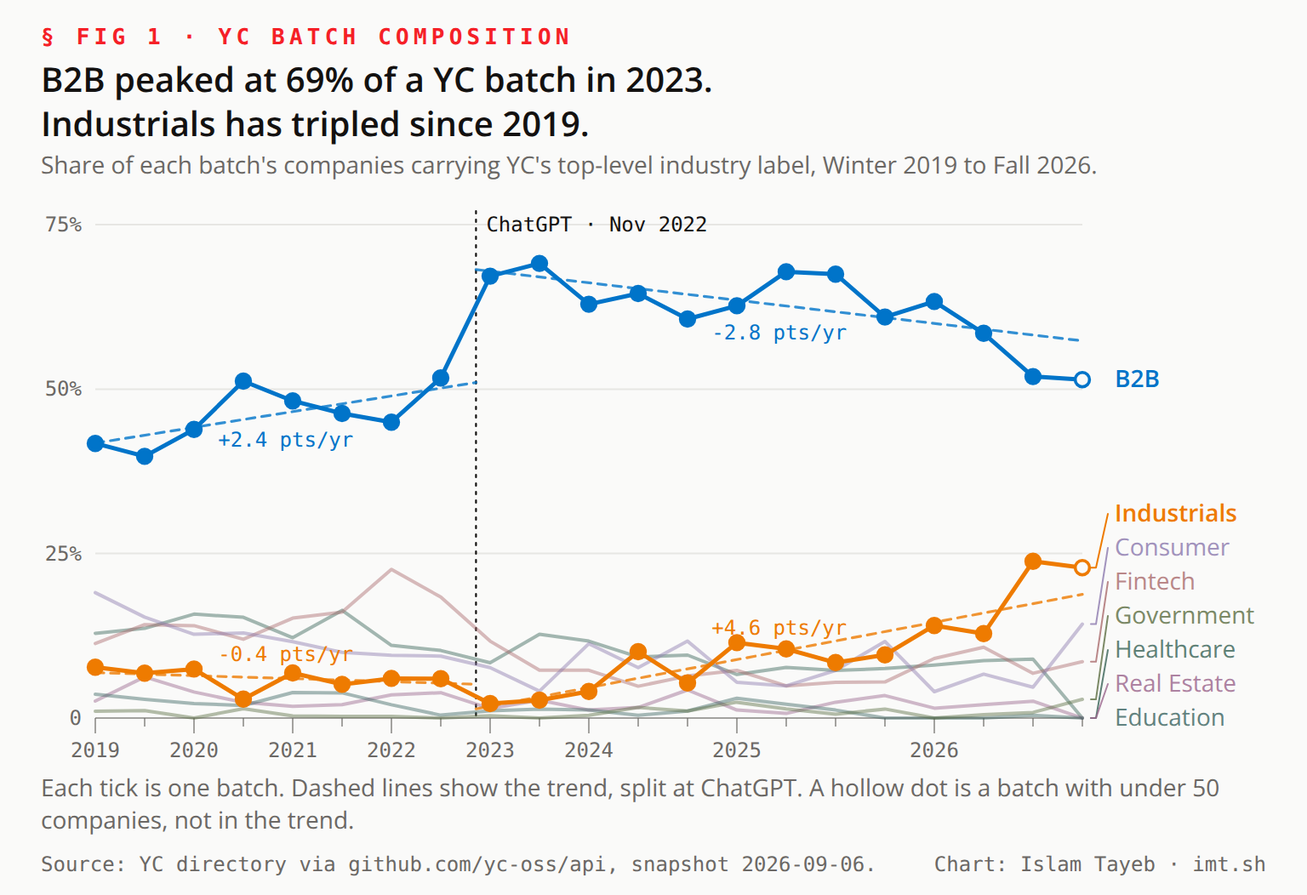
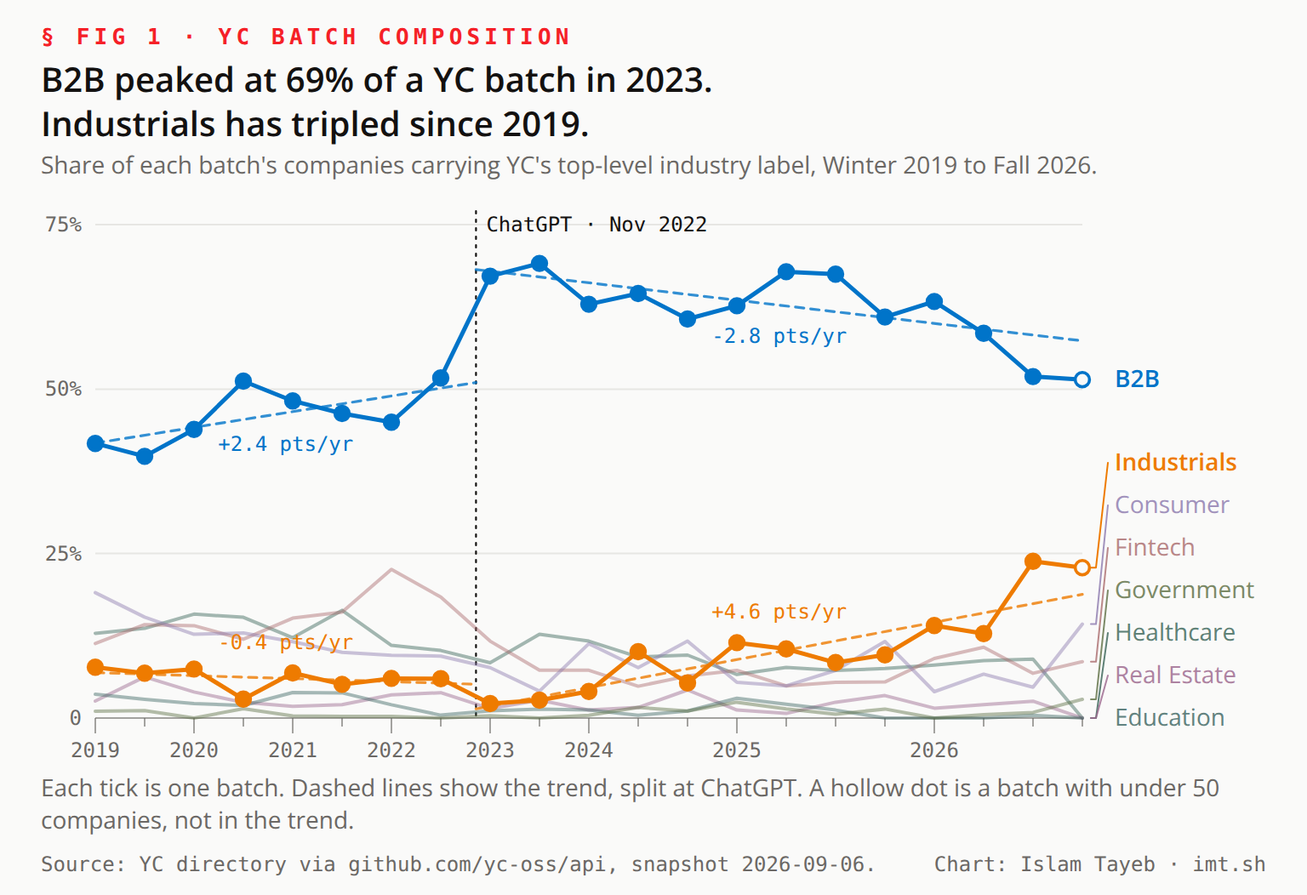
Blog figures: Fig 1 slope labels clear the series line, end labels spaced 25px

diff --git a/blog/figures/preview.html b/blog/figures/preview.html
@@ -30,7 +30,7 @@ button{font:12px ui-monospace,Menlo,monospace;background:none;color:var(--muted-
 .imt .s-r{stroke:var(--r)}.imt .s-o{stroke:var(--o)}.imt .s-y{stroke:var(--y)}.imt .s-b{stroke:var(--b)}
 .imt .f-r{fill:var(--r)}.imt .f-o{fill:var(--o)}.imt .f-y{fill:var(--y)}.imt .f-b{fill:var(--b)}
 .imt .area{opacity:.12}
-</style><rect class="ground" width="768" height="526"/><text x="24.0" y="26.0" class="kick mono f-r" text-anchor="start">§ FIG 1  ·  YC BATCH COMPOSITION</text><text x="24.0" y="54.0" class="h" text-anchor="start">B2B peaked at 69% of a YC batch in 2023.</text><text x="24.0" y="80.0" class="h" text-anchor="start">Industrials has tripled since 2019.</text><text x="24.0" y="102.0" class="dek m" text-anchor="start">Share of each batch's companies carrying YC's top-level industry label, Winter 2019 to Fall 2026.</text><line x1="56.0" y1="422.0" x2="636.0" y2="422.0" class="axis" stroke-width="1"/><text x="48.0" y="426.0" class="tick mono m" text-anchor="end">0</text><line x1="56.0" y1="325.3" x2="636.0" y2="325.3" class="grid" stroke-width="1"/><text x="48.0" y="329.3" class="tick mono m" text-anchor="end">25%</text><line x1="56.0" y1="228.7" x2="636.0" y2="228.7" class="grid" stroke-width="1"/><text x="48.0" y="232.7" class="tick mono m" text-anchor="end">50%</text><line x1="56.0" y1="132.0" x2="636.0" y2="132.0" class="grid" stroke-width="1"/><text x="48.0" y="136.0" class="tick mono m" text-anchor="end">75%</text><line x1="56.0" y1="422.0" x2="56.0" y2="431.0" class="axis" stroke-width="1"/><text x="56.0" y="445.0" class="tick mono m" text-anchor="middle">2019</text><line x1="85.0" y1="422.0" x2="85.0" y2="427.0" class="axis" stroke-width="1"/><line x1="114.0" y1="422.0" x2="114.0" y2="431.0" class="axis" stroke-width="1"/><text x="114.0" y="445.0" class="tick mono m" text-anchor="middle">2020</text><line x1="143.0" y1="422.0" x2="143.0" y2="427.0" class="axis" stroke-width="1"/><line x1="172.0" y1="422.0" x2="172.0" y2="431.0" class="axis" stroke-width="1"/><text x="172.0" y="445.0" class="tick mono m" text-anchor="middle">2021</text><line x1="201.0" y1="422.0" x2="201.0" y2="427.0" class="axis" stroke-width="1"/><line x1="230.0" y1="422.0" x2="230.0" y2="431.0" class="axis" stroke-width="1"/><text x="230.0" y="445.0" class="tick mono m" text-anchor="middle">2022</text><line x1="259.0" y1="422.0" x2="259.0" y2="427.0" class="axis" stroke-width="1"/><line x1="288.0" y1="422.0" x2="288.0" y2="431.0" class="axis" stroke-width="1"/><text x="288.0" y="445.0" class="tick mono m" text-anchor="middle">2023</text><line x1="317.0" y1="422.0" x2="317.0" y2="427.0" class="axis" stroke-width="1"/><line x1="346.0" y1="422.0" x2="346.0" y2="431.0" class="axis" stroke-width="1"/><text x="346.0" y="445.0" class="tick mono m" text-anchor="middle">2024</text><line x1="375.0" y1="422.0" x2="375.0" y2="427.0" class="axis" stroke-width="1"/><line x1="404.0" y1="422.0" x2="404.0" y2="427.0" class="axis" stroke-width="1"/><line x1="433.0" y1="422.0" x2="433.0" y2="431.0" class="axis" stroke-width="1"/><text x="433.0" y="445.0" class="tick mono m" text-anchor="middle">2025</text><line x1="462.0" y1="422.0" x2="462.0" y2="427.0" class="axis" stroke-width="1"/><line x1="491.0" y1="422.0" x2="491.0" y2="427.0" class="axis" stroke-width="1"/><line x1="520.0" y1="422.0" x2="520.0" y2="427.0" class="axis" stroke-width="1"/><line x1="549.0" y1="422.0" x2="549.0" y2="431.0" class="axis" stroke-width="1"/><text x="549.0" y="445.0" class="tick mono m" text-anchor="middle">2026</text><line x1="578.0" y1="422.0" x2="578.0" y2="427.0" class="axis" stroke-width="1"/><line x1="607.0" y1="422.0" x2="607.0" y2="427.0" class="axis" stroke-width="1"/><line x1="636.0" y1="422.0" x2="636.0" y2="427.0" class="axis" stroke-width="1"/><line x1="279.7" y1="124.0" x2="279.7" y2="422.0" class="ev" stroke-width="1"/><text x="285.7" y="136.0" class="tick mono" text-anchor="start">ChatGPT · Nov 2022</text><path d="M56.0,372.2 L85.0,369.3 L114.0,360.9 L143.0,362.8 L172.0,374.8 L201.0,358.7 L230.0,379.3 L259.0,382.3 L288.0,389.5 L317.0,372.8 L346.0,376.8 L375.0,386.1 L404.0,385.0 L433.0,396.4 L462.0,392.3 L491.0,394.0 L520.0,392.9 L549.0,390.9 L578.0,388.3 L607.0,387.4 L636.0,422.0" class="ln d0" stroke-width="2.0" opacity="0.45"><title>Healthcare</title></path><path d="M56.0,378.2 L85.0,367.1 L114.0,367.7 L143.0,375.7 L172.0,363.3 L201.0,359.7 L230.0,334.6 L259.0,350.9 L288.0,376.8 L317.0,393.9 L346.0,393.9 L375.0,403.3 L404.0,397.3 L433.0,394.0 L462.0,403.1 L491.0,401.0 L520.0,400.8 L549.0,387.0 L578.0,380.4 L607.0,395.7 L636.0,388.9" class="ln d5" stroke-width="2.0" opacity="0.45"><title>Fintech</title></path><path d="M56.0,348.3 L85.0,362.7 L114.0,372.8 L143.0,372.0 L172.0,377.1 L201.0,383.4 L230.0,385.1 L259.0,385.6 L288.0,392.4 L317.0,406.2 L346.0,378.3 L375.0,392.4 L404.0,376.8 L433.0,401.0 L462.0,403.1 L491.0,394.0 L520.0,377.0 L549.0,406.5 L578.0,396.2 L607.0,403.9 L636.0,366.8" class="ln d1" stroke-width="2.0" opacity="0.45"><title>Consumer</title></path><path d="M56.0,412.0 L85.0,397.8 L114.0,406.7 L143.0,412.8 L172.0,415.1 L201.0,414.1 L230.0,408.4 L259.0,407.1 L288.0,416.4 L317.0,411.5 L346.0,417.3 L375.0,415.8 L404.0,405.5 L433.0,417.3 L462.0,419.3 L491.0,412.7 L520.0,408.8 L549.0,416.2 L578.0,414.1 L607.0,412.1 L636.0,422.0" class="ln d3" stroke-width="2.0" opacity="0.45"><title>Real Estate and Construction</title></path><path d="M56.0,408.0 L85.0,411.0 L114.0,413.5 L143.0,414.6 L172.0,407.0 L201.0,407.2 L230.0,414.2 L259.0,420.3 L288.0,417.8 L317.0,416.7 L346.0,417.3 L375.0,420.4 L404.0,417.9 L433.0,410.4 L462.0,413.9 L491.0,417.3 L520.0,422.0 L549.0,422.0 L578.0,422.0 L607.0,420.4 L636.0,422.0" class="ln d2" stroke-width="2.0" opacity="0.45"><title>Education</title></path><path d="M56.0,418.0 L85.0,417.6 L114.0,422.0 L143.0,416.5 L172.0,420.8 L201.0,421.0 L230.0,421.0 L259.0,422.0 L288.0,420.6 L317.0,422.0 L346.0,420.4 L375.0,415.8 L404.0,417.9 L433.0,412.7 L462.0,416.6 L491.0,419.7 L520.0,416.7 L549.0,422.0 L578.0,420.0 L607.0,418.7 L636.0,411.0" class="ln d4" stroke-width="2.0" opacity="0.45"><title>Government</title></path><path d="M56.0,260.4 L279.7,224.8" class="ln trend s-b" stroke-width="1.6"><title>B2B, least-squares fit Winter 2019 to Summer 2022: +2.4 points per year</title></path><text x="167.9" y="262.6" class="tick mono f-b" text-anchor="middle">+2.4 pts/yr</text><path d="M279.7,158.4 L636.0,200.3" class="ln trend s-b" stroke-width="1.6"><title>B2B, least-squares fit Winter 2023 to Summer 2026: -2.8 points per year</title></path><text x="457.9" y="199.3" class="tick mono f-b" text-anchor="middle">-2.8 pts/yr</text><path d="M56.0,260.6 L85.0,268.2 L114.0,252.4 L143.0,224.0 L172.0,235.6 L201.0,243.0 L230.0,248.1 L259.0,222.1 L288.0,162.3 L317.0,154.8 L346.0,178.8 L375.0,172.5 L404.0,187.5 L433.0,179.7 L462.0,159.7 L491.0,161.1 L520.0,186.3 L549.0,177.2 L578.0,195.9 L607.0,221.3 L636.0,223.1" class="ln s-b" stroke-width="2.5"></path><circle cx="56.0" cy="260.6" r="4.2" class="s-b f-b" stroke-width="1.8"><title>W19 · B2B · 41.8% (81 of 194)</title></circle><circle cx="85.0" cy="268.2" r="4.2" class="s-b f-b" stroke-width="1.8"><title>S19 · B2B · 39.8% (70 of 176)</title></circle><circle cx="114.0" cy="252.4" r="4.2" class="s-b f-b" stroke-width="1.8"><title>W20 · B2B · 43.9% (100 of 228)</title></circle><circle cx="143.0" cy="224.0" r="4.2" class="s-b f-b" stroke-width="1.8"><title>S20 · B2B · 51.2% (107 of 209)</title></circle><circle cx="172.0" cy="235.6" r="4.2" class="s-b f-b" stroke-width="1.8"><title>W21 · B2B · 48.2% (162 of 336)</title></circle><circle cx="201.0" cy="243.0" r="4.2" class="s-b f-b" stroke-width="1.8"><title>S21 · B2B · 46.3% (181 of 391)</title></circle><circle cx="230.0" cy="248.1" r="4.2" class="s-b f-b" stroke-width="1.8"><title>W22 · B2B · 45.0% (179 of 398)</title></circle><circle cx="259.0" cy="222.1" r="4.2" class="s-b f-b" stroke-width="1.8"><title>S22 · B2B · 51.7% (121 of 234)</title></circle><circle cx="288.0" cy="162.3" r="4.2" class="s-b f-b" stroke-width="1.8"><title>W23 · B2B · 67.2% (184 of 274)</title></circle><circle cx="317.0" cy="154.8" r="4.2" class="s-b f-b" stroke-width="1.8"><title>S23 · B2B · 69.1% (152 of 220)</title></circle><circle cx="346.0" cy="178.8" r="4.2" class="s-b f-b" stroke-width="1.8"><title>W24 · B2B · 62.9% (156 of 248)</title></circle><circle cx="375.0" cy="172.5" r="4.2" class="s-b f-b" stroke-width="1.8"><title>S24 · B2B · 64.5% (160 of 248)</title></circle><circle cx="404.0" cy="187.5" r="4.2" class="s-b f-b" stroke-width="1.8"><title>F24 · B2B · 60.6% (57 of 94)</title></circle><circle cx="433.0" cy="179.7" r="4.2" class="s-b f-b" stroke-width="1.8"><title>W25 · B2B · 62.7% (104 of 166)</title></circle><circle cx="462.0" cy="159.7" r="4.2" class="s-b f-b" stroke-width="1.8"><title>X25 · B2B · 67.8% (97 of 143)</title></circle><circle cx="491.0" cy="161.1" r="4.2" class="s-b f-b" stroke-width="1.8"><title>S25 · B2B · 67.5% (112 of 166)</title></circle><circle cx="520.0" cy="186.3" r="4.2" class="s-b f-b" stroke-width="1.8"><title>F25 · B2B · 61.0% (89 of 146)</title></circle><circle cx="549.0" cy="177.2" r="4.2" class="s-b f-b" stroke-width="1.8"><title>W26 · B2B · 63.3% (126 of 199)</title></circle><circle cx="578.0" cy="195.9" r="4.2" class="s-b f-b" stroke-width="1.8"><title>X26 · B2B · 58.5% (114 of 195)</title></circle><circle cx="607.0" cy="221.3" r="4.2" class="s-b f-b" stroke-width="1.8"><title>S26 · B2B · 51.9% (122 of 235)</title></circle><circle cx="636.0" cy="223.1" r="4.2" class="s-b hollow" stroke-width="1.8"><title>F26 · B2B · 51.4% (18 of 35)</title></circle><path d="M56.0,395.3 L279.7,402.1" class="ln trend s-o" stroke-width="1.6"><title>Industrials, least-squares fit Winter 2019 to Summer 2022: -0.4 points per year</title></path><text x="167.9" y="388.7" class="tick mono f-o" text-anchor="middle">-0.4 pts/yr</text><path d="M279.7,416.6 L636.0,349.3" class="ln trend s-o" stroke-width="1.6"><title>Industrials, least-squares fit Winter 2023 to Summer 2026: +4.6 points per year</title></path><text x="457.9" y="373.0" class="tick mono f-o" text-anchor="middle">+4.6 pts/yr</text><path d="M56.0,392.1 L85.0,395.6 L114.0,393.2 L143.0,410.9 L172.0,395.5 L201.0,402.2 L230.0,398.7 L259.0,398.9 L288.0,413.5 L317.0,411.5 L346.0,406.4 L375.0,383.0 L404.0,401.4 L433.0,377.7 L462.0,381.4 L491.0,389.4 L520.0,384.9 L549.0,367.6 L578.0,372.4 L607.0,329.9 L636.0,333.6" class="ln s-o" stroke-width="2.5"></path><circle cx="56.0" cy="392.1" r="4.2" class="s-o f-o" stroke-width="1.8"><title>W19 · Industrials · 7.7% (15 of 194)</title></circle><circle cx="85.0" cy="395.6" r="4.2" class="s-o f-o" stroke-width="1.8"><title>S19 · Industrials · 6.8% (12 of 176)</title></circle><circle cx="114.0" cy="393.2" r="4.2" class="s-o f-o" stroke-width="1.8"><title>W20 · Industrials · 7.5% (17 of 228)</title></circle><circle cx="143.0" cy="410.9" r="4.2" class="s-o f-o" stroke-width="1.8"><title>S20 · Industrials · 2.9% (6 of 209)</title></circle><circle cx="172.0" cy="395.5" r="4.2" class="s-o f-o" stroke-width="1.8"><title>W21 · Industrials · 6.8% (23 of 336)</title></circle><circle cx="201.0" cy="402.2" r="4.2" class="s-o f-o" stroke-width="1.8"><title>S21 · Industrials · 5.1% (20 of 391)</title></circle><circle cx="230.0" cy="398.7" r="4.2" class="s-o f-o" stroke-width="1.8"><title>W22 · Industrials · 6.0% (24 of 398)</title></circle><circle cx="259.0" cy="398.9" r="4.2" class="s-o f-o" stroke-width="1.8"><title>S22 · Industrials · 6.0% (14 of 234)</title></circle><circle cx="288.0" cy="413.5" r="4.2" class="s-o f-o" stroke-width="1.8"><title>W23 · Industrials · 2.2% (6 of 274)</title></circle><circle cx="317.0" cy="411.5" r="4.2" class="s-o f-o" stroke-width="1.8"><title>S23 · Industrials · 2.7% (6 of 220)</title></circle><circle cx="346.0" cy="406.4" r="4.2" class="s-o f-o" stroke-width="1.8"><title>W24 · Industrials · 4.0% (10 of 248)</title></circle><circle cx="375.0" cy="383.0" r="4.2" class="s-o f-o" stroke-width="1.8"><title>S24 · Industrials · 10.1% (25 of 248)</title></circle><circle cx="404.0" cy="401.4" r="4.2" class="s-o f-o" stroke-width="1.8"><title>F24 · Industrials · 5.3% (5 of 94)</title></circle><circle cx="433.0" cy="377.7" r="4.2" class="s-o f-o" stroke-width="1.8"><title>W25 · Industrials · 11.4% (19 of 166)</title></circle><circle cx="462.0" cy="381.4" r="4.2" class="s-o f-o" stroke-width="1.8"><title>X25 · Industrials · 10.5% (15 of 143)</title></circle><circle cx="491.0" cy="389.4" r="4.2" class="s-o f-o" stroke-width="1.8"><title>S25 · Industrials · 8.4% (14 of 166)</title></circle><circle cx="520.0" cy="384.9" r="4.2" class="s-o f-o" stroke-width="1.8"><title>F25 · Industrials · 9.6% (14 of 146)</title></circle><circle cx="549.0" cy="367.6" r="4.2" class="s-o f-o" stroke-width="1.8"><title>W26 · Industrials · 14.1% (28 of 199)</title></circle><circle cx="578.0" cy="372.4" r="4.2" class="s-o f-o" stroke-width="1.8"><title>X26 · Industrials · 12.8% (25 of 195)</title></circle><circle cx="607.0" cy="329.9" r="4.2" class="s-o f-o" stroke-width="1.8"><title>S26 · Industrials · 23.8% (56 of 235)</title></circle><circle cx="636.0" cy="333.6" r="4.2" class="s-o hollow" stroke-width="1.8"><title>F26 · Industrials · 22.9% (8 of 35)</title></circle><text x="655.0" y="227.6" class="lab f-b" text-anchor="start">B2B</text><path d="M641.0,333.6 H644.0 L651.0,302.0" class="ln s-o" stroke-width="1"></path><text x="655.0" y="306.5" class="lab f-o" text-anchor="start">Industrials</text><path d="M641.0,422.0 H644.0 L651.0,382.0" class="ln d0" stroke-width="1" opacity="0.8"></path><text x="655.0" y="386.5" class="labr dt0" text-anchor="start" opacity="0.8">Healthcare</text><path d="M641.0,388.9 H644.0 L651.0,342.0" class="ln d5" stroke-width="1" opacity="0.8"></path><text x="655.0" y="346.5" class="labr dt5" text-anchor="start" opacity="0.8">Fintech</text><path d="M641.0,366.8 H644.0 L651.0,322.0" class="ln d1" stroke-width="1" opacity="0.8"></path><text x="655.0" y="326.5" class="labr dt1" text-anchor="start" opacity="0.8">Consumer</text><path d="M641.0,422.0 H644.0 L651.0,402.0" class="ln d3" stroke-width="1" opacity="0.8"></path><text x="655.0" y="406.5" class="labr dt3" text-anchor="start" opacity="0.8">Real Estate</text><text x="655.0" y="426.5" class="labr dt2" text-anchor="start" opacity="0.8">Education</text><path d="M641.0,411.0 H644.0 L651.0,362.0" class="ln d4" stroke-width="1" opacity="0.8"></path><text x="655.0" y="366.5" class="labr dt4" text-anchor="start" opacity="0.8">Government</text><text x="24.0" y="468.0" class="cap m" text-anchor="start">Each tick is one batch. Dashed lines show the trend, split at ChatGPT. A hollow dot is a batch with under 50</text><text x="24.0" y="487.0" class="cap m" text-anchor="start">companies, not in the trend.</text><text x="24.0" y="512.0" class="foot mono m" text-anchor="start">Source: YC directory via github.com/yc-oss/api, snapshot 2026-09-06.</text><text x="744.0" y="512.0" class="foot mono m" text-anchor="end">Chart: Islam Tayeb · imt.sh</text></svg>
+</style><rect class="ground" width="768" height="526"/><text x="24.0" y="26.0" class="kick mono f-r" text-anchor="start">§ FIG 1  ·  YC BATCH COMPOSITION</text><text x="24.0" y="54.0" class="h" text-anchor="start">B2B peaked at 69% of a YC batch in 2023.</text><text x="24.0" y="80.0" class="h" text-anchor="start">Industrials has tripled since 2019.</text><text x="24.0" y="102.0" class="dek m" text-anchor="start">Share of each batch's companies carrying YC's top-level industry label, Winter 2019 to Fall 2026.</text><line x1="56.0" y1="422.0" x2="636.0" y2="422.0" class="axis" stroke-width="1"/><text x="48.0" y="426.0" class="tick mono m" text-anchor="end">0</text><line x1="56.0" y1="325.3" x2="636.0" y2="325.3" class="grid" stroke-width="1"/><text x="48.0" y="329.3" class="tick mono m" text-anchor="end">25%</text><line x1="56.0" y1="228.7" x2="636.0" y2="228.7" class="grid" stroke-width="1"/><text x="48.0" y="232.7" class="tick mono m" text-anchor="end">50%</text><line x1="56.0" y1="132.0" x2="636.0" y2="132.0" class="grid" stroke-width="1"/><text x="48.0" y="136.0" class="tick mono m" text-anchor="end">75%</text><line x1="56.0" y1="422.0" x2="56.0" y2="431.0" class="axis" stroke-width="1"/><text x="56.0" y="445.0" class="tick mono m" text-anchor="middle">2019</text><line x1="85.0" y1="422.0" x2="85.0" y2="427.0" class="axis" stroke-width="1"/><line x1="114.0" y1="422.0" x2="114.0" y2="431.0" class="axis" stroke-width="1"/><text x="114.0" y="445.0" class="tick mono m" text-anchor="middle">2020</text><line x1="143.0" y1="422.0" x2="143.0" y2="427.0" class="axis" stroke-width="1"/><line x1="172.0" y1="422.0" x2="172.0" y2="431.0" class="axis" stroke-width="1"/><text x="172.0" y="445.0" class="tick mono m" text-anchor="middle">2021</text><line x1="201.0" y1="422.0" x2="201.0" y2="427.0" class="axis" stroke-width="1"/><line x1="230.0" y1="422.0" x2="230.0" y2="431.0" class="axis" stroke-width="1"/><text x="230.0" y="445.0" class="tick mono m" text-anchor="middle">2022</text><line x1="259.0" y1="422.0" x2="259.0" y2="427.0" class="axis" stroke-width="1"/><line x1="288.0" y1="422.0" x2="288.0" y2="431.0" class="axis" stroke-width="1"/><text x="288.0" y="445.0" class="tick mono m" text-anchor="middle">2023</text><line x1="317.0" y1="422.0" x2="317.0" y2="427.0" class="axis" stroke-width="1"/><line x1="346.0" y1="422.0" x2="346.0" y2="431.0" class="axis" stroke-width="1"/><text x="346.0" y="445.0" class="tick mono m" text-anchor="middle">2024</text><line x1="375.0" y1="422.0" x2="375.0" y2="427.0" class="axis" stroke-width="1"/><line x1="404.0" y1="422.0" x2="404.0" y2="427.0" class="axis" stroke-width="1"/><line x1="433.0" y1="422.0" x2="433.0" y2="431.0" class="axis" stroke-width="1"/><text x="433.0" y="445.0" class="tick mono m" text-anchor="middle">2025</text><line x1="462.0" y1="422.0" x2="462.0" y2="427.0" class="axis" stroke-width="1"/><line x1="491.0" y1="422.0" x2="491.0" y2="427.0" class="axis" stroke-width="1"/><line x1="520.0" y1="422.0" x2="520.0" y2="427.0" class="axis" stroke-width="1"/><line x1="549.0" y1="422.0" x2="549.0" y2="431.0" class="axis" stroke-width="1"/><text x="549.0" y="445.0" class="tick mono m" text-anchor="middle">2026</text><line x1="578.0" y1="422.0" x2="578.0" y2="427.0" class="axis" stroke-width="1"/><line x1="607.0" y1="422.0" x2="607.0" y2="427.0" class="axis" stroke-width="1"/><line x1="636.0" y1="422.0" x2="636.0" y2="427.0" class="axis" stroke-width="1"/><line x1="279.7" y1="124.0" x2="279.7" y2="422.0" class="ev" stroke-width="1"/><text x="285.7" y="136.0" class="tick mono" text-anchor="start">ChatGPT · Nov 2022</text><path d="M56.0,372.2 L85.0,369.3 L114.0,360.9 L143.0,362.8 L172.0,374.8 L201.0,358.7 L230.0,379.3 L259.0,382.3 L288.0,389.5 L317.0,372.8 L346.0,376.8 L375.0,386.1 L404.0,385.0 L433.0,396.4 L462.0,392.3 L491.0,394.0 L520.0,392.9 L549.0,390.9 L578.0,388.3 L607.0,387.4 L636.0,422.0" class="ln d0" stroke-width="2.0" opacity="0.45"><title>Healthcare</title></path><path d="M56.0,378.2 L85.0,367.1 L114.0,367.7 L143.0,375.7 L172.0,363.3 L201.0,359.7 L230.0,334.6 L259.0,350.9 L288.0,376.8 L317.0,393.9 L346.0,393.9 L375.0,403.3 L404.0,397.3 L433.0,394.0 L462.0,403.1 L491.0,401.0 L520.0,400.8 L549.0,387.0 L578.0,380.4 L607.0,395.7 L636.0,388.9" class="ln d5" stroke-width="2.0" opacity="0.45"><title>Fintech</title></path><path d="M56.0,348.3 L85.0,362.7 L114.0,372.8 L143.0,372.0 L172.0,377.1 L201.0,383.4 L230.0,385.1 L259.0,385.6 L288.0,392.4 L317.0,406.2 L346.0,378.3 L375.0,392.4 L404.0,376.8 L433.0,401.0 L462.0,403.1 L491.0,394.0 L520.0,377.0 L549.0,406.5 L578.0,396.2 L607.0,403.9 L636.0,366.8" class="ln d1" stroke-width="2.0" opacity="0.45"><title>Consumer</title></path><path d="M56.0,412.0 L85.0,397.8 L114.0,406.7 L143.0,412.8 L172.0,415.1 L201.0,414.1 L230.0,408.4 L259.0,407.1 L288.0,416.4 L317.0,411.5 L346.0,417.3 L375.0,415.8 L404.0,405.5 L433.0,417.3 L462.0,419.3 L491.0,412.7 L520.0,408.8 L549.0,416.2 L578.0,414.1 L607.0,412.1 L636.0,422.0" class="ln d3" stroke-width="2.0" opacity="0.45"><title>Real Estate and Construction</title></path><path d="M56.0,408.0 L85.0,411.0 L114.0,413.5 L143.0,414.6 L172.0,407.0 L201.0,407.2 L230.0,414.2 L259.0,420.3 L288.0,417.8 L317.0,416.7 L346.0,417.3 L375.0,420.4 L404.0,417.9 L433.0,410.4 L462.0,413.9 L491.0,417.3 L520.0,422.0 L549.0,422.0 L578.0,422.0 L607.0,420.4 L636.0,422.0" class="ln d2" stroke-width="2.0" opacity="0.45"><title>Education</title></path><path d="M56.0,418.0 L85.0,417.6 L114.0,422.0 L143.0,416.5 L172.0,420.8 L201.0,421.0 L230.0,421.0 L259.0,422.0 L288.0,420.6 L317.0,422.0 L346.0,420.4 L375.0,415.8 L404.0,417.9 L433.0,412.7 L462.0,416.6 L491.0,419.7 L520.0,416.7 L549.0,422.0 L578.0,420.0 L607.0,418.7 L636.0,411.0" class="ln d4" stroke-width="2.0" opacity="0.45"><title>Government</title></path><path d="M56.0,260.4 L279.7,224.8" class="ln trend s-b" stroke-width="1.6"><title>B2B, least-squares fit Winter 2019 to Summer 2022: +2.4 points per year</title></path><text x="167.9" y="265.0" class="tick mono f-b" text-anchor="middle">+2.4 pts/yr</text><path d="M279.7,158.4 L636.0,200.3" class="ln trend s-b" stroke-width="1.6"><title>B2B, least-squares fit Winter 2023 to Summer 2026: -2.8 points per year</title></path><text x="457.9" y="201.7" class="tick mono f-b" text-anchor="middle">-2.8 pts/yr</text><path d="M56.0,260.6 L85.0,268.2 L114.0,252.4 L143.0,224.0 L172.0,235.6 L201.0,243.0 L230.0,248.1 L259.0,222.1 L288.0,162.3 L317.0,154.8 L346.0,178.8 L375.0,172.5 L404.0,187.5 L433.0,179.7 L462.0,159.7 L491.0,161.1 L520.0,186.3 L549.0,177.2 L578.0,195.9 L607.0,221.3 L636.0,223.1" class="ln s-b" stroke-width="2.5"></path><circle cx="56.0" cy="260.6" r="4.2" class="s-b f-b" stroke-width="1.8"><title>W19 · B2B · 41.8% (81 of 194)</title></circle><circle cx="85.0" cy="268.2" r="4.2" class="s-b f-b" stroke-width="1.8"><title>S19 · B2B · 39.8% (70 of 176)</title></circle><circle cx="114.0" cy="252.4" r="4.2" class="s-b f-b" stroke-width="1.8"><title>W20 · B2B · 43.9% (100 of 228)</title></circle><circle cx="143.0" cy="224.0" r="4.2" class="s-b f-b" stroke-width="1.8"><title>S20 · B2B · 51.2% (107 of 209)</title></circle><circle cx="172.0" cy="235.6" r="4.2" class="s-b f-b" stroke-width="1.8"><title>W21 · B2B · 48.2% (162 of 336)</title></circle><circle cx="201.0" cy="243.0" r="4.2" class="s-b f-b" stroke-width="1.8"><title>S21 · B2B · 46.3% (181 of 391)</title></circle><circle cx="230.0" cy="248.1" r="4.2" class="s-b f-b" stroke-width="1.8"><title>W22 · B2B · 45.0% (179 of 398)</title></circle><circle cx="259.0" cy="222.1" r="4.2" class="s-b f-b" stroke-width="1.8"><title>S22 · B2B · 51.7% (121 of 234)</title></circle><circle cx="288.0" cy="162.3" r="4.2" class="s-b f-b" stroke-width="1.8"><title>W23 · B2B · 67.2% (184 of 274)</title></circle><circle cx="317.0" cy="154.8" r="4.2" class="s-b f-b" stroke-width="1.8"><title>S23 · B2B · 69.1% (152 of 220)</title></circle><circle cx="346.0" cy="178.8" r="4.2" class="s-b f-b" stroke-width="1.8"><title>W24 · B2B · 62.9% (156 of 248)</title></circle><circle cx="375.0" cy="172.5" r="4.2" class="s-b f-b" stroke-width="1.8"><title>S24 · B2B · 64.5% (160 of 248)</title></circle><circle cx="404.0" cy="187.5" r="4.2" class="s-b f-b" stroke-width="1.8"><title>F24 · B2B · 60.6% (57 of 94)</title></circle><circle cx="433.0" cy="179.7" r="4.2" class="s-b f-b" stroke-width="1.8"><title>W25 · B2B · 62.7% (104 of 166)</title></circle><circle cx="462.0" cy="159.7" r="4.2" class="s-b f-b" stroke-width="1.8"><title>X25 · B2B · 67.8% (97 of 143)</title></circle><circle cx="491.0" cy="161.1" r="4.2" class="s-b f-b" stroke-width="1.8"><title>S25 · B2B · 67.5% (112 of 166)</title></circle><circle cx="520.0" cy="186.3" r="4.2" class="s-b f-b" stroke-width="1.8"><title>F25 · B2B · 61.0% (89 of 146)</title></circle><circle cx="549.0" cy="177.2" r="4.2" class="s-b f-b" stroke-width="1.8"><title>W26 · B2B · 63.3% (126 of 199)</title></circle><circle cx="578.0" cy="195.9" r="4.2" class="s-b f-b" stroke-width="1.8"><title>X26 · B2B · 58.5% (114 of 195)</title></circle><circle cx="607.0" cy="221.3" r="4.2" class="s-b f-b" stroke-width="1.8"><title>S26 · B2B · 51.9% (122 of 235)</title></circle><circle cx="636.0" cy="223.1" r="4.2" class="s-b hollow" stroke-width="1.8"><title>F26 · B2B · 51.4% (18 of 35)</title></circle><path d="M56.0,395.3 L279.7,402.1" class="ln trend s-o" stroke-width="1.6"><title>Industrials, least-squares fit Winter 2019 to Summer 2022: -0.4 points per year</title></path><text x="167.9" y="381.5" class="tick mono f-o" text-anchor="middle">-0.4 pts/yr</text><path d="M279.7,416.6 L636.0,349.3" class="ln trend s-o" stroke-width="1.6"><title>Industrials, least-squares fit Winter 2023 to Summer 2026: +4.6 points per year</title></path><text x="457.9" y="363.7" class="tick mono f-o" text-anchor="middle">+4.6 pts/yr</text><path d="M56.0,392.1 L85.0,395.6 L114.0,393.2 L143.0,410.9 L172.0,395.5 L201.0,402.2 L230.0,398.7 L259.0,398.9 L288.0,413.5 L317.0,411.5 L346.0,406.4 L375.0,383.0 L404.0,401.4 L433.0,377.7 L462.0,381.4 L491.0,389.4 L520.0,384.9 L549.0,367.6 L578.0,372.4 L607.0,329.9 L636.0,333.6" class="ln s-o" stroke-width="2.5"></path><circle cx="56.0" cy="392.1" r="4.2" class="s-o f-o" stroke-width="1.8"><title>W19 · Industrials · 7.7% (15 of 194)</title></circle><circle cx="85.0" cy="395.6" r="4.2" class="s-o f-o" stroke-width="1.8"><title>S19 · Industrials · 6.8% (12 of 176)</title></circle><circle cx="114.0" cy="393.2" r="4.2" class="s-o f-o" stroke-width="1.8"><title>W20 · Industrials · 7.5% (17 of 228)</title></circle><circle cx="143.0" cy="410.9" r="4.2" class="s-o f-o" stroke-width="1.8"><title>S20 · Industrials · 2.9% (6 of 209)</title></circle><circle cx="172.0" cy="395.5" r="4.2" class="s-o f-o" stroke-width="1.8"><title>W21 · Industrials · 6.8% (23 of 336)</title></circle><circle cx="201.0" cy="402.2" r="4.2" class="s-o f-o" stroke-width="1.8"><title>S21 · Industrials · 5.1% (20 of 391)</title></circle><circle cx="230.0" cy="398.7" r="4.2" class="s-o f-o" stroke-width="1.8"><title>W22 · Industrials · 6.0% (24 of 398)</title></circle><circle cx="259.0" cy="398.9" r="4.2" class="s-o f-o" stroke-width="1.8"><title>S22 · Industrials · 6.0% (14 of 234)</title></circle><circle cx="288.0" cy="413.5" r="4.2" class="s-o f-o" stroke-width="1.8"><title>W23 · Industrials · 2.2% (6 of 274)</title></circle><circle cx="317.0" cy="411.5" r="4.2" class="s-o f-o" stroke-width="1.8"><title>S23 · Industrials · 2.7% (6 of 220)</title></circle><circle cx="346.0" cy="406.4" r="4.2" class="s-o f-o" stroke-width="1.8"><title>W24 · Industrials · 4.0% (10 of 248)</title></circle><circle cx="375.0" cy="383.0" r="4.2" class="s-o f-o" stroke-width="1.8"><title>S24 · Industrials · 10.1% (25 of 248)</title></circle><circle cx="404.0" cy="401.4" r="4.2" class="s-o f-o" stroke-width="1.8"><title>F24 · Industrials · 5.3% (5 of 94)</title></circle><circle cx="433.0" cy="377.7" r="4.2" class="s-o f-o" stroke-width="1.8"><title>W25 · Industrials · 11.4% (19 of 166)</title></circle><circle cx="462.0" cy="381.4" r="4.2" class="s-o f-o" stroke-width="1.8"><title>X25 · Industrials · 10.5% (15 of 143)</title></circle><circle cx="491.0" cy="389.4" r="4.2" class="s-o f-o" stroke-width="1.8"><title>S25 · Industrials · 8.4% (14 of 166)</title></circle><circle cx="520.0" cy="384.9" r="4.2" class="s-o f-o" stroke-width="1.8"><title>F25 · Industrials · 9.6% (14 of 146)</title></circle><circle cx="549.0" cy="367.6" r="4.2" class="s-o f-o" stroke-width="1.8"><title>W26 · Industrials · 14.1% (28 of 199)</title></circle><circle cx="578.0" cy="372.4" r="4.2" class="s-o f-o" stroke-width="1.8"><title>X26 · Industrials · 12.8% (25 of 195)</title></circle><circle cx="607.0" cy="329.9" r="4.2" class="s-o f-o" stroke-width="1.8"><title>S26 · Industrials · 23.8% (56 of 235)</title></circle><circle cx="636.0" cy="333.6" r="4.2" class="s-o hollow" stroke-width="1.8"><title>F26 · Industrials · 22.9% (8 of 35)</title></circle><text x="655.0" y="227.6" class="lab f-b" text-anchor="start">B2B</text><path d="M641.0,333.6 H644.0 L651.0,272.0" class="ln s-o" stroke-width="1"></path><text x="655.0" y="276.5" class="lab f-o" text-anchor="start">Industrials</text><path d="M641.0,422.0 H644.0 L651.0,372.0" class="ln d0" stroke-width="1" opacity="0.8"></path><text x="655.0" y="376.5" class="labr dt0" text-anchor="start" opacity="0.8">Healthcare</text><path d="M641.0,388.9 H644.0 L651.0,322.0" class="ln d5" stroke-width="1" opacity="0.8"></path><text x="655.0" y="326.5" class="labr dt5" text-anchor="start" opacity="0.8">Fintech</text><path d="M641.0,366.8 H644.0 L651.0,297.0" class="ln d1" stroke-width="1" opacity="0.8"></path><text x="655.0" y="301.5" class="labr dt1" text-anchor="start" opacity="0.8">Consumer</text><path d="M641.0,422.0 H644.0 L651.0,397.0" class="ln d3" stroke-width="1" opacity="0.8"></path><text x="655.0" y="401.5" class="labr dt3" text-anchor="start" opacity="0.8">Real Estate</text><text x="655.0" y="426.5" class="labr dt2" text-anchor="start" opacity="0.8">Education</text><path d="M641.0,411.0 H644.0 L651.0,347.0" class="ln d4" stroke-width="1" opacity="0.8"></path><text x="655.0" y="351.5" class="labr dt4" text-anchor="start" opacity="0.8">Government</text><text x="24.0" y="468.0" class="cap m" text-anchor="start">Each tick is one batch. Dashed lines show the trend, split at ChatGPT. A hollow dot is a batch with under 50</text><text x="24.0" y="487.0" class="cap m" text-anchor="start">companies, not in the trend.</text><text x="24.0" y="512.0" class="foot mono m" text-anchor="start">Source: YC directory via github.com/yc-oss/api, snapshot 2026-09-06.</text><text x="744.0" y="512.0" class="foot mono m" text-anchor="end">Chart: Islam Tayeb · imt.sh</text></svg>
 </figure><p>Body copy at the site's 16px / 1.625 so the figure can be judged against the type it will sit between. YC's batches are the unit here: every company that goes through the accelerator is stamped with a season and a year, and the directory keeps that label long after the company has changed what it does.</p><figure class="article-media article-media-unframed" data-fig="2"><svg xmlns="http://www.w3.org/2000/svg" viewBox="0 0 768 483" width="100%" class="imt" role="img"><style>
 .imt{--bg:var(--background,#fafaf9);--ink:var(--foreground,#131110);--mut:var(--muted-foreground,#6b6865);
 --rule:var(--border,#dfdedb);--prule:var(--page-rule,#131110);--r:var(--roy-r,#f52027);--o:var(--roy-o,#ee7b00);

diff --git a/blog/make_figures.py b/blog/make_figures.py
@@ -292,8 +292,12 @@ def fig_share(t, embed):
             s.path(polyline([X(p0), X(p1)], [Y(a * p0 + b), Y(a * p1 + b)]), f"ln trend s-{tok}", 1.6,
                    title=f"{name}, least-squares fit {solid.batch.iloc[0]} to {solid.batch.iloc[-1]}: {ay:+.1f} points per year")
             pm = (p0 + p1) / 2    # slope label on each dashed segment: above for Industrials, below for B2B
-            dy = -10 if name == "Industrials" else 20
-            s.text(X(pm), Y(a * pm + b) + dy, f"{ay:+.1f} pts/yr", f"tick mono f-{tok}", "middle")
+            lab = f"{ay:+.1f} pts/yr"
+            half = text_w(lab, 12, "mono") / 2 + 6
+            near = d[(X(d.pos) >= X(pm) - half) & (X(d.pos) <= X(pm) + half)]   # points the label would sit over
+            ys = [Y(a * pm + b)] + [Y(v) for v in near.share_pct]
+            y = min(ys) - 14 if name == "Industrials" else max(ys) + 22      # clear of fit, solid line, marker and descenders
+            s.text(X(pm), y, lab, f"tick mono f-{tok}", "middle")
         s.path(polyline([X(p) for p in d.pos], [Y(v) for v in d.share_pct]), f"ln s-{tok}", 2.5)
         for _, r in d.iterrows():
             s.dot(X(r.pos), Y(r.share_pct), 4.2, f"s-{tok} {'hollow' if r.is_partial_batch else f'f-{tok}'}",
@@ -301,7 +305,7 @@ def fig_share(t, embed):
     # direct labels at the right edge, nudged apart, with a leader where a label had to move
     names = list(HI) + GRAY
     ends = [Y(series(n).iloc[-1].share_pct) for n in names]
-    lys = spread(ends, 20, y0, y1)   # fans the cluster up into the gap below B2B; leaders point back to each line
+    lys = spread(ends, 25, y0, y1)   # fans the cluster up into the gap below B2B; leaders point back to each line
     end_labels(s, names, ends, lys, X(npos - 1))
     s.footer(y1 + 46, ["Each tick is one batch. Dashed lines show the trend, split at ChatGPT.",
                        "A hollow dot is a batch with under 50 companies, not in the trend."], SOURCE_YC)
